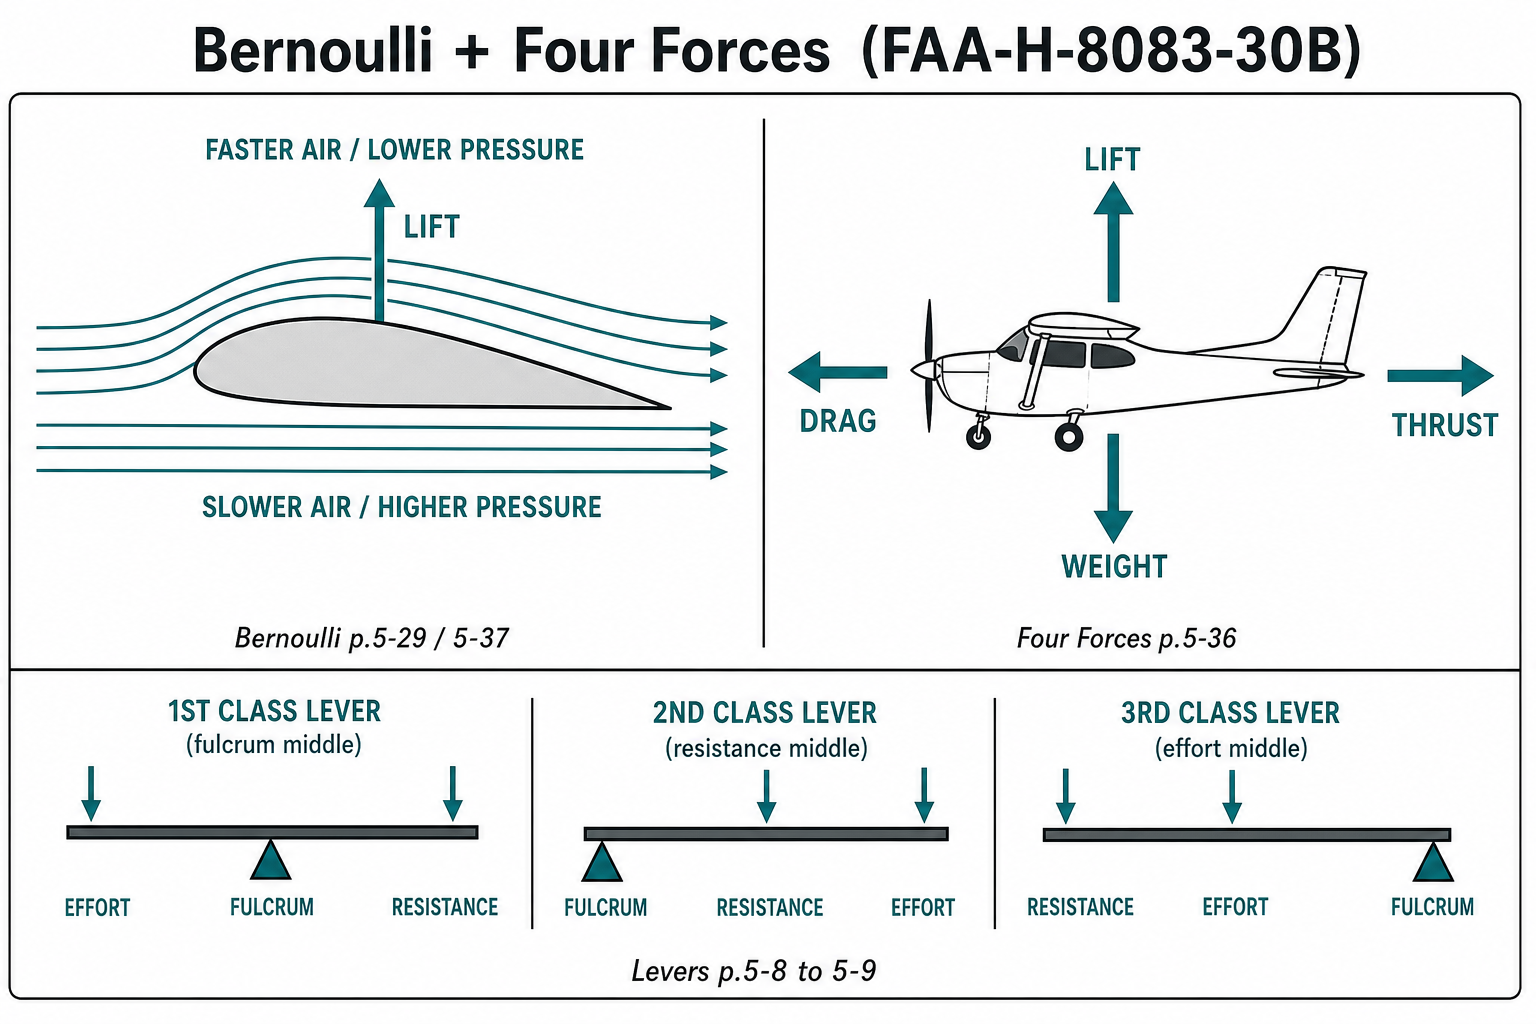
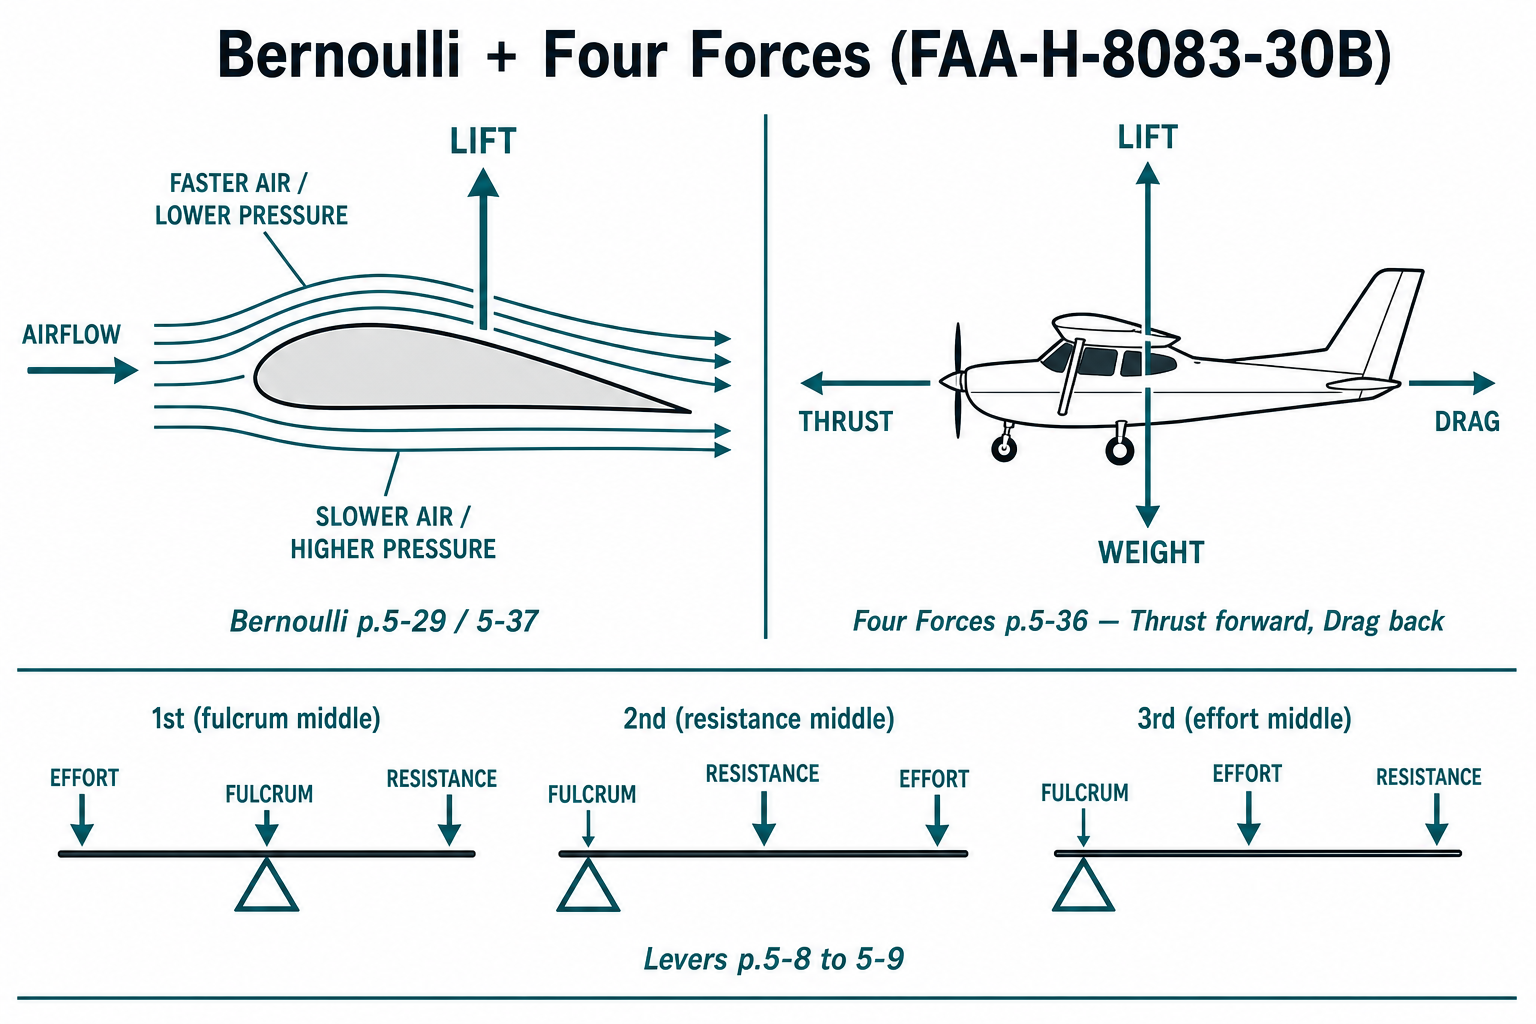
Fix four-forces diagram so thrust is forward and drag aft.

diff --git a/school-work/physics/block-01-aviation-physics-notes.md b/school-work/physics/block-01-aviation-physics-notes.md
@@ -362,4 +362,4 @@ Lift comes from:
 9. Pascal – pressure equal in confined fluid  
 10. Bernoulli – faster flow, lower pressure  
 
-_Last updated: 2026-07-22 — Block 01 Aviation Physics notebook summary_
+_Last updated: 2026-07-22 — Block 01 Aviation Physics notebook summary with FAA-H-8083-30B page refs + study images_
